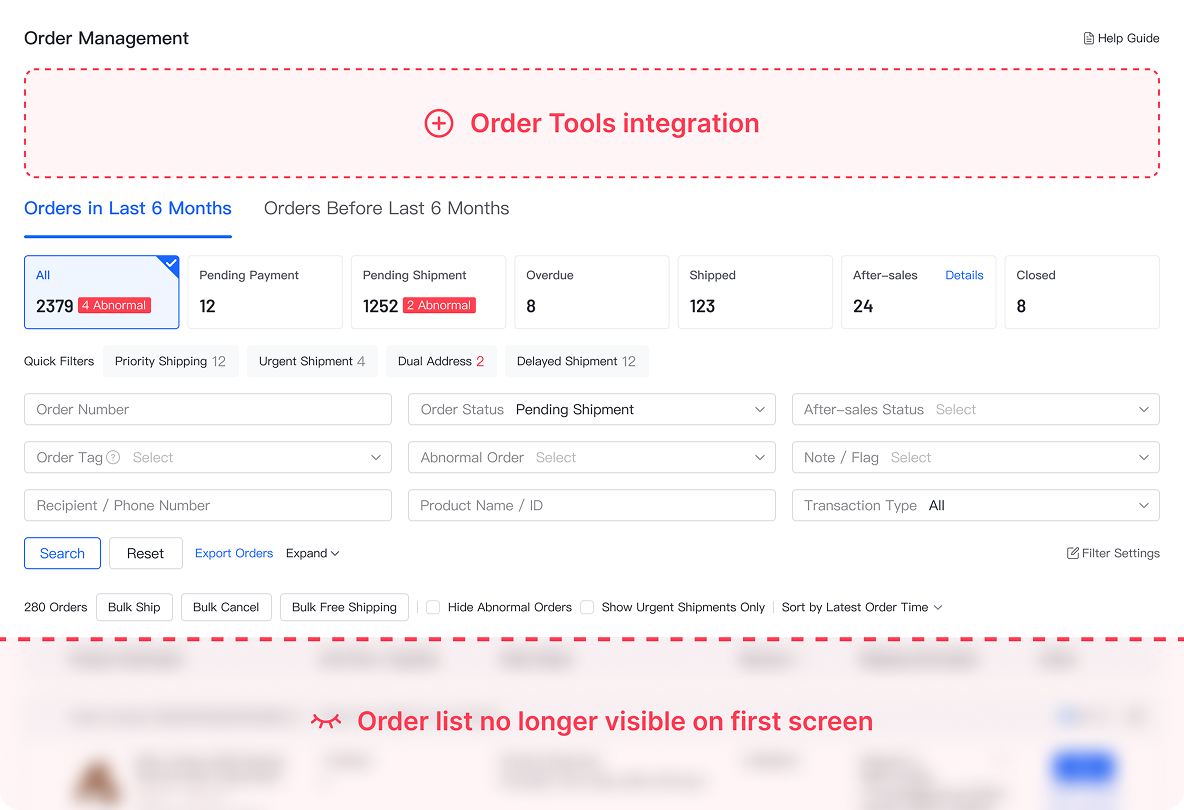
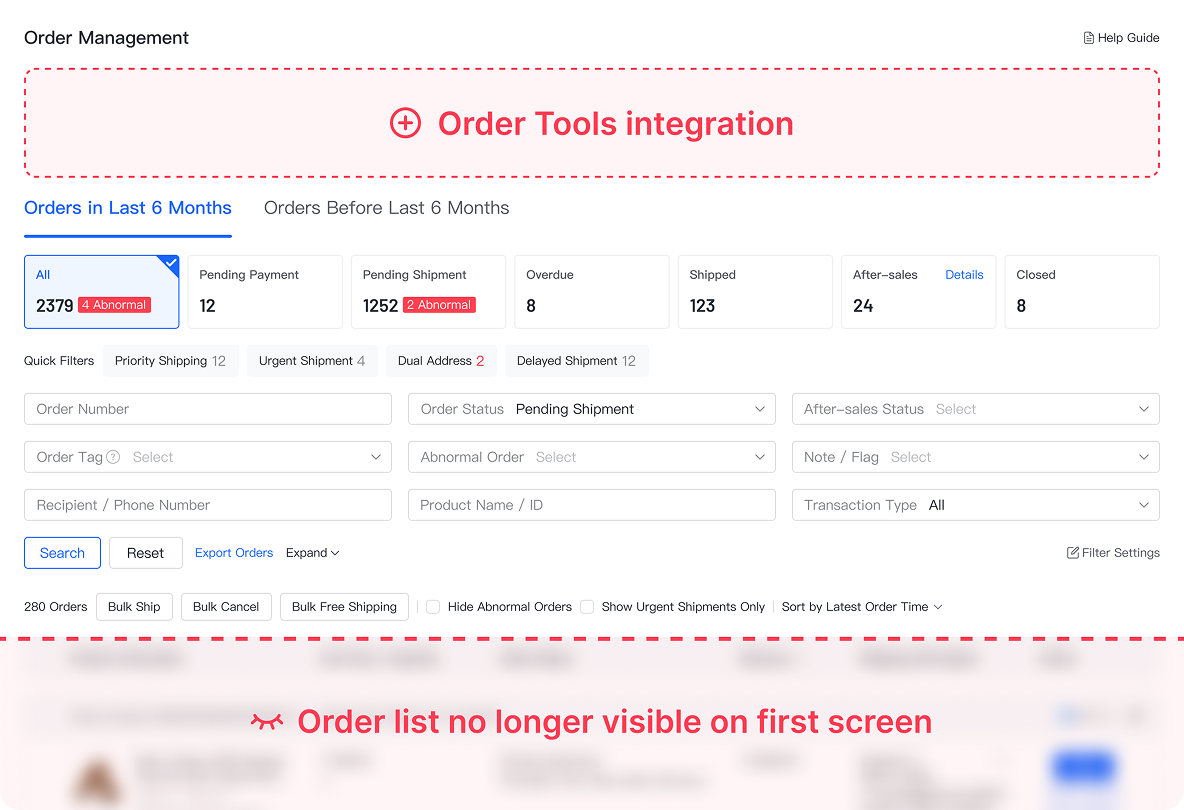
Right-align smaller no-space image, widen text column, update image

diff --git a/bytedance.html b/bytedance.html
@@ -235,10 +235,10 @@ j=d.createElement(s),dl=l!='dataLayer'?'&l='+l:'';j.async=true;j.src=
   .bt-solution-row {
     display: flex; flex-wrap: wrap; gap: 48px; align-items: flex-start;
   }
-  .bt-solution-row-text { flex: 1 1 280px; min-width: 260px; }
+  .bt-solution-row-text { flex: 1 1 380px; min-width: 260px; }
   .bt-solution-row-images {
-    flex: 1 1 460px; min-width: 280px;
-    display: flex; flex-direction: column; gap: 24px;
+    flex: 1 1 360px; min-width: 280px;
+    display: flex; flex-direction: column; align-items: flex-end; gap: 24px;
   }
   .bt-solution-img {
     width: 100%; display: block; border-radius: 12px; margin: 0;
